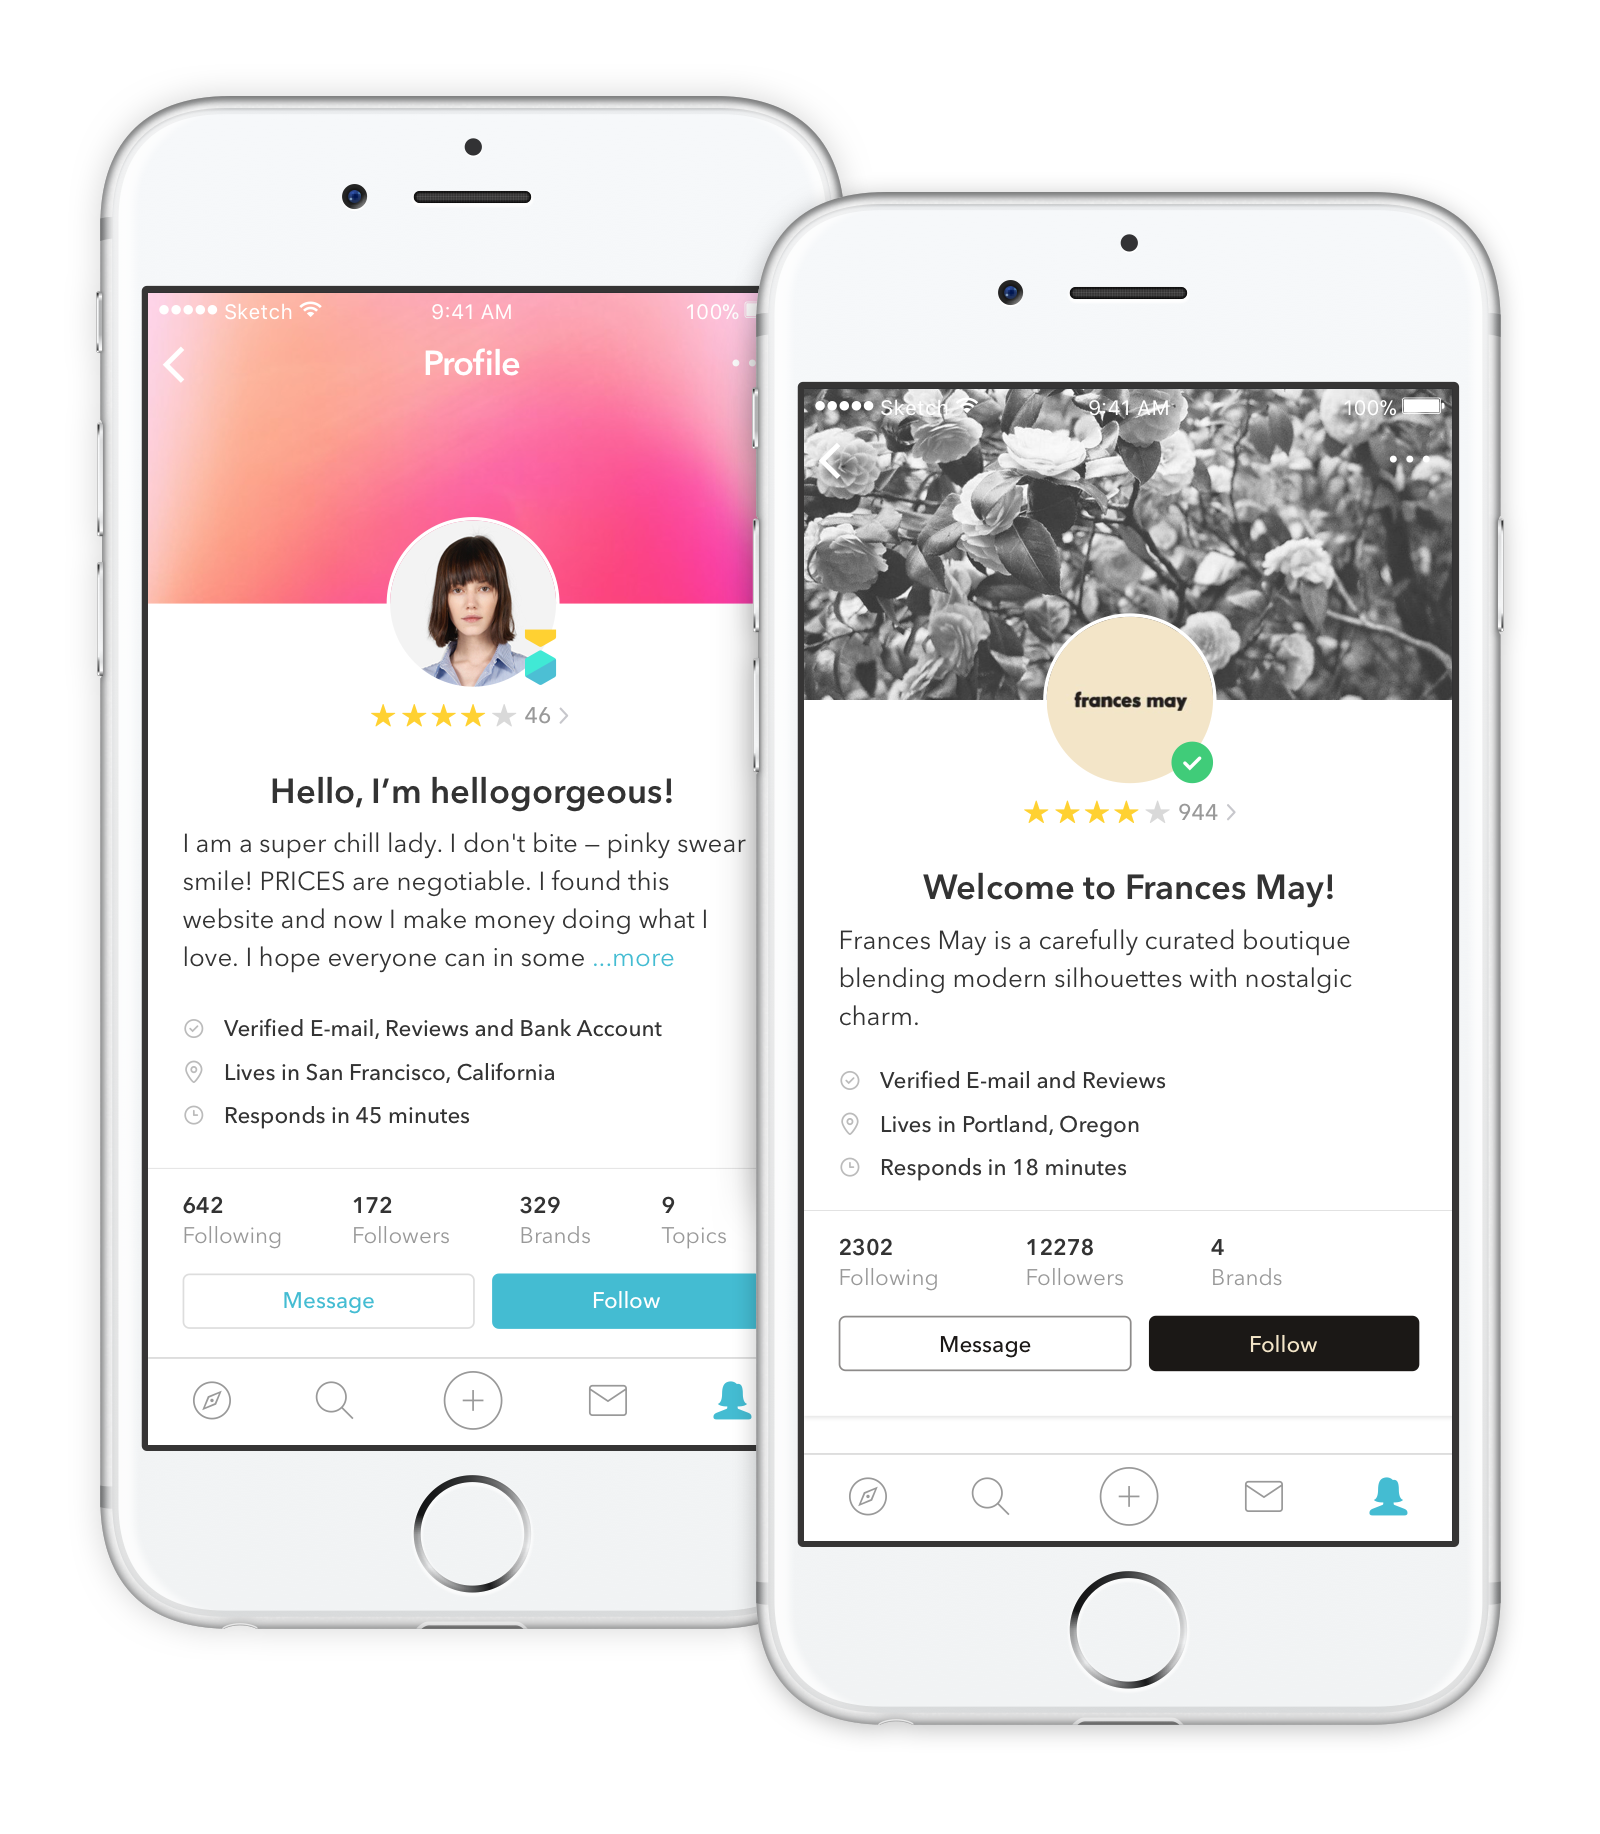
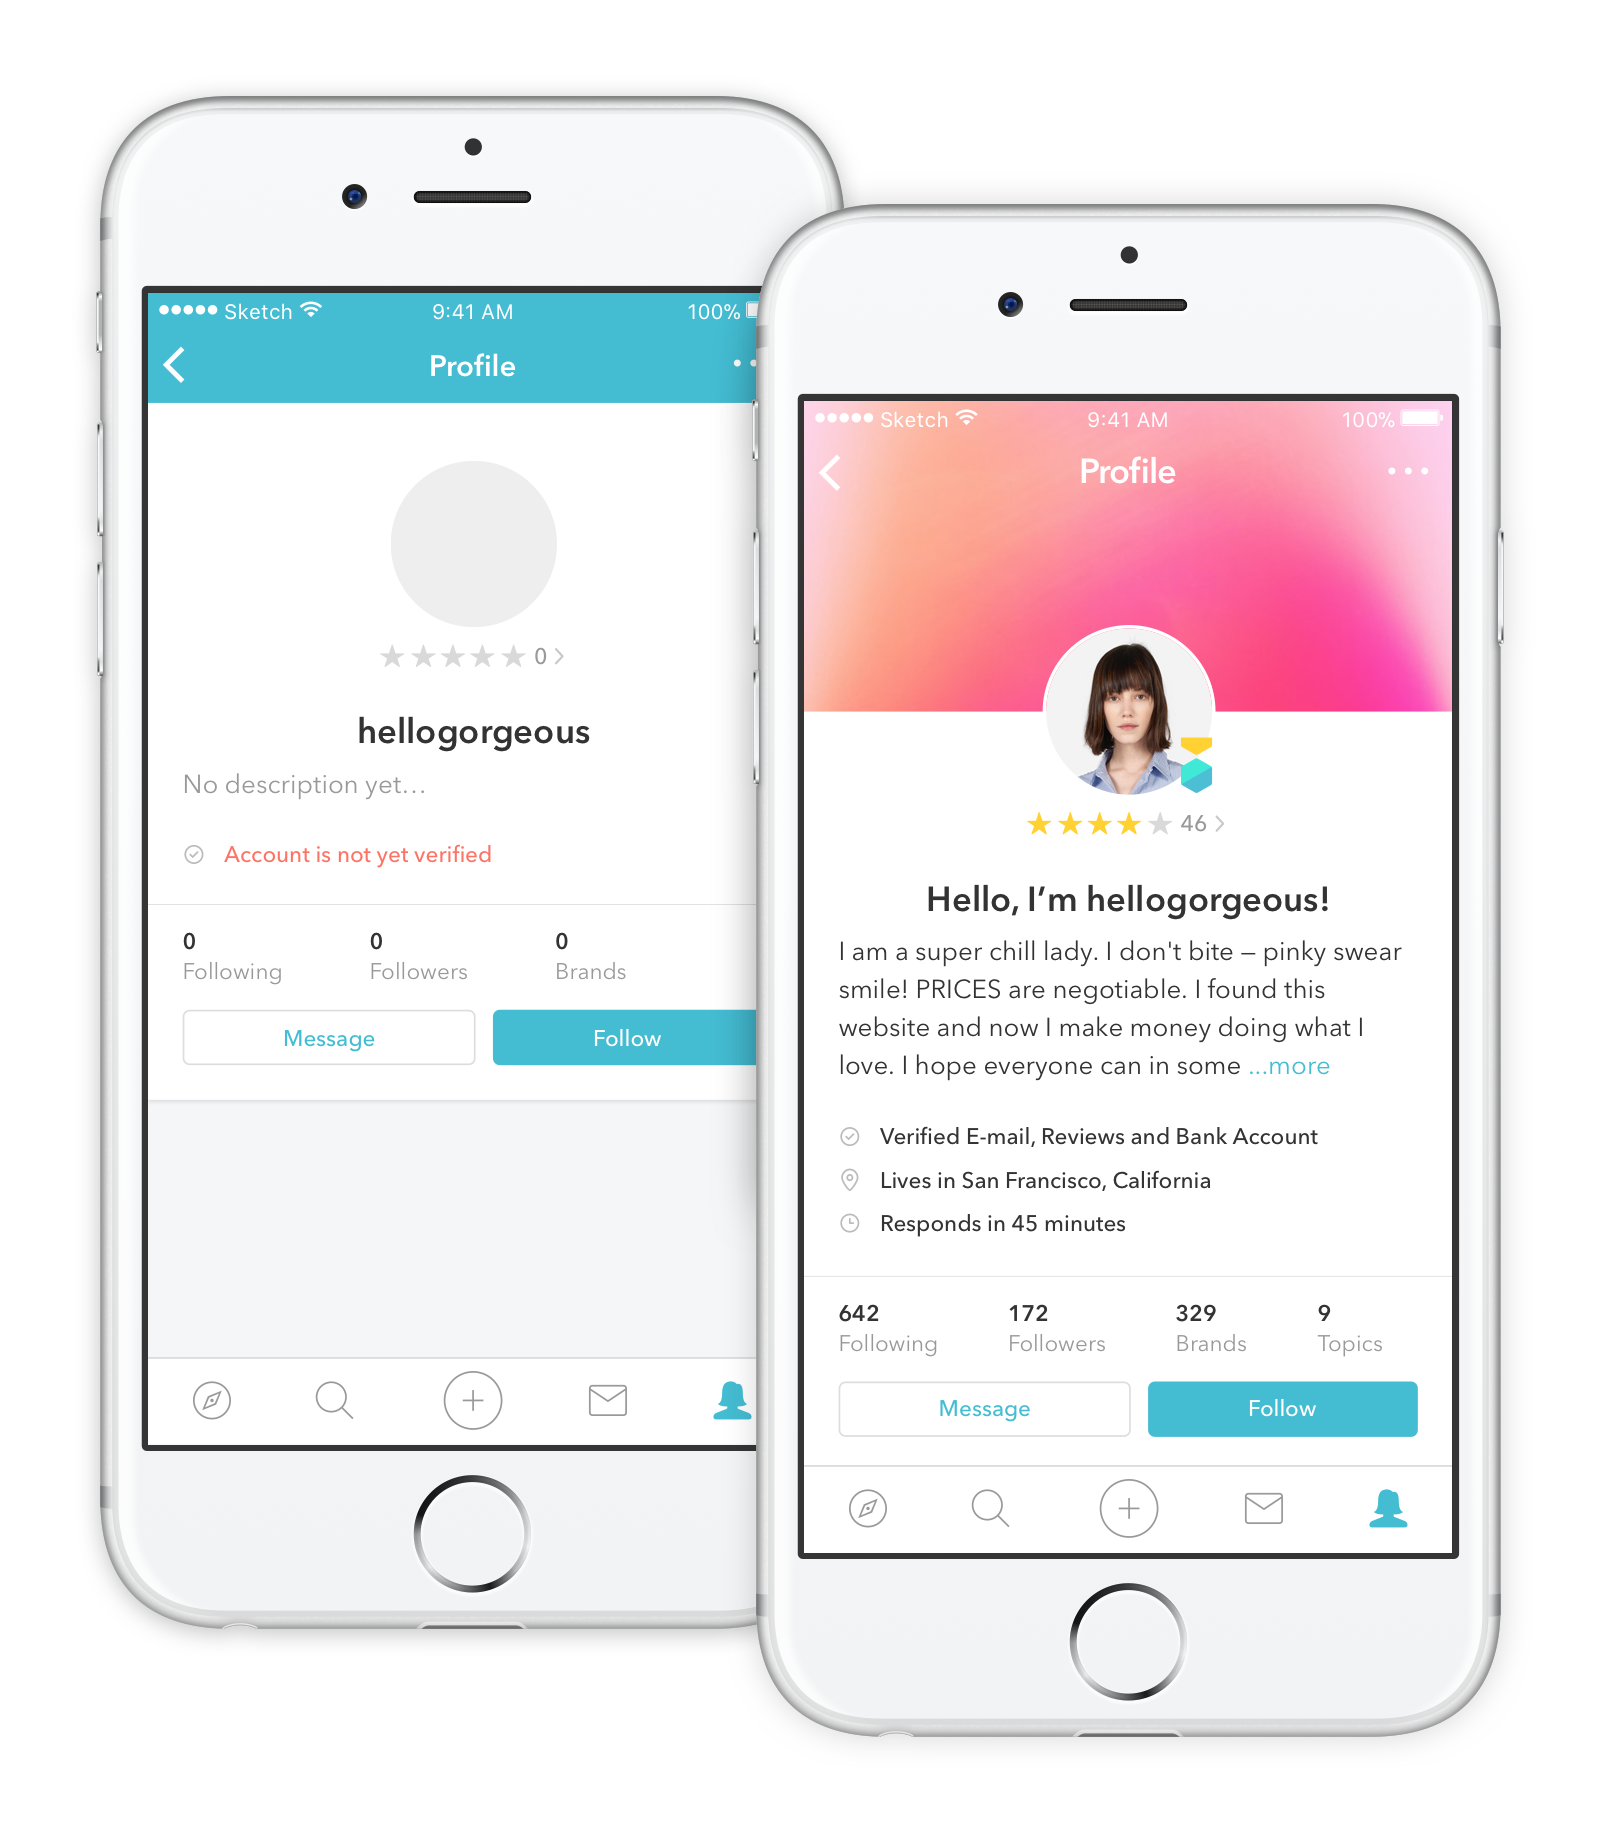
Finish profile examples in Vinted case study

diff --git a/vinted.html b/vinted.html
@@ -23,14 +23,9 @@
             </svg>
           </figure>
 
-          <p>I’ve joined Vinted in early 2014 — in the midst of company and market expansion and started as a front-end developer. After
-          a while, and seeing that product lacks the quality and focus, I began to design as well. The company saw my efforts and in
-          few upcoming months, decided to give me a permanent role in product design — a possibility to work on web and mobile experiences.</p>
+          <p>I’ve joined Vinted in early 2014 — in the midst of company and market expansion as a front-end developer. After a while, and seeing that product lacks the quality and focus, I began to design as well. The company saw my efforts and in few upcoming months, decided to give me a permanent role in product design — a possibility to work on web and mobile experiences.</p>
 
-          <p>During this time, I had an opportunity to work on projects ranging from the personalization of a feed, onboarding, safety
-          and trust improvements, buying and selling experiences to video stories, editorial, help center or members collections. For
-          some time, I’ve also lead eight designers team, while mainly focusing on design organization scale, impact and vision across
-          Vinted products, marketing, and communication.</p>
+          <p>During this time, I had an opportunity to work on projects ranging from the personalization of a feed, onboarding, safety and trust improvements, buying and selling experiences to video stories, editorial, help center or members collections. For some time, I’ve also led eight designers team, while mainly focusing on design organization scale, impact and vision across Vinted products, marketing, and communication.</p>
 
           <p>I will focus only on the projects, that made the biggest impact on product and experience.</p>
       </section>
@@ -52,7 +47,7 @@
           <p>So I’ve had to change how ratings are being calculated and displayed:</p>
 
           <ul>
-            <li><strong>Remove sales count</strong> as sales without reviews were not truly valuable.</li>
+            <li><strong>Remove sales count</strong> as sales without reviews weren't truly valuable.</li>
             <li><strong>Remove legacy positive/negative feedbacks count</strong> as it only confused our users.</li>
             <li><strong>Update rating calculation rules</strong> for more precise reflection of members feedbacks.</li>
           </ul>
@@ -77,25 +72,19 @@
             </figure>
 
             <p>New feedback flow contained same five-star rating with clear names and a possibility to sort feedbacks by most recent or most helpful. I've also improved seller-buyer conversation: added notification reminders about feedbacks that need to be left, added feedback timer, which would leave automatic feedback once expired, and decided to display feedbacks in profile only when both sides (buyer and seller) left them.</p>
-
-            <p>Being aware that feedback changes will cause a major discussion in our community, we had to prepare an extensive communication as well.</p>
           </span>
 
           <p>Feedback display improvements were a major success for our top users with a lot of feedbacks, but not for our new users with no feedback at all. Having that in mind, I've decided to rethink how we present user profile and add more trust identifiers.</p>
 
-          <span class="wrapper wrapper--medium">
-            <figure>
-              <a href="#id_verification_flow">
-                <img class="thumbnail" src="images/vinted/id_verification_flow.png" alt="Newly added ID Verification flow in profile settings." />
-              </a>
-            
-              <figcaption>Newly added ID Verification flow in profile settings.</figcaption>
-            </figure>
+          <figure class="figure--medium">
+            <a href="#id_verification_flow">
+              <img class="thumbnail image--medium" src="images/vinted/id_verification_flow.png" alt="Newly added ID Verification flow in profile settings." />
+            </a>
+          
+            <figcaption>Newly added ID Verification flow in profile settings.</figcaption>
+          </figure>
 
-            <p>By adding additional verification layers (ID and bank verification) to already existing ones, users will be able to improve their profile quality and, in consequence, look more trustful without making a huge number of sales.</p>
-
-            <p>...</p>
-          </span>
+          <p>By implementing additional verification layers (ID and bank verification) to already existing ones, users would be able to improve their profile quality and, in consequence, look more trustful without making a huge number of sales.</p>
 
           <span class="wrapper wrapper--medium">
             <figure>
@@ -106,19 +95,17 @@
               <figcaption>Badges system for updated member profile.</figcaption>
             </figure>
 
-            <p>...</p>
-          </span>          
+            <p>This also meant, that we can improve the personalization of the profile, as it was the front of users clothes stores. For that reason, I've added customizable background cover and a possibility to add more details.</p>
 
-          <figure>
-            PROFILE EXPLORATION?
-          </figure>
+            <p>After huge exploration with multiple layouts for different platforms, empty states, badges system and personalization details, the new profile was ready to see the daylight. And, being aware that changes will cause a major discussion in our community, we had to prepare an extensive communication as well.</p>
+          </span>          
 
           <figure class="figure--medium">
             <a href="#profile_examples">
-              <img class="thumbnail image--medium" src="images/vinted/profile_examples.png" alt="Final version of new Vinted profile with feedback rating, verifications and cover."/>
+              <img class="thumbnail image--medium" src="images/vinted/profile_examples.png" alt="Two version of new profile — totally empty and with personal details added."/>
             </a>
           
-            <figcaption>Final version of new Vinted profile with feedback rating, verifications and cover.</figcaption>
+            <figcaption>Two version of new profile — totally empty and with personal details added.</figcaption>
           </figure>
 
           <p>We've rolled out the updated profile with new feedback and verifications across all our countries, and saw immediate improvements in items sold per user, which was a good indication, that we've done an amazing job!</p>
@@ -155,7 +142,7 @@
         <h2 id="design_system">Design System</h2>
           <p>Product designer at Vinted designs for three platforms — Web, iOS, and Android. So, designing UI would always take much more time than problem research or solution exploration.</p>
 
-          <p>Once I’ve started leading design team, I set myself a goal — to fix our design process. We’ve started having weekly user exposure hours, built guild roadmap, defined design vision, and principles, but having experience in both design and development, I’ve also started thinking how to improve design-to-development process.</p>
+          <p>Once I’ve started leading design team, I set myself a goal — to fix our design process. We’ve started having weekly user exposure hours, built guild roadmap, defined design vision and principles, but having experience in both design and development, I’ve also started thinking how to improve design-to-development process.</p>
 
           <blockquote>“Design system goal is not a consistency, but improvement in design-to-development processes. Consistency is only a consequence of good processes.”</blockquote>
 
@@ -181,7 +168,7 @@
             </ul>
           </span>
 
-          <p>The components were separated into three groups — atoms, molecules, and organisms (based on Atomic Design principles). They had specific properties, which defined variations, and shared same primitives — color themes and styles.</p>
+          <p>The components were separated into three groups — atoms, molecules, and organisms (based on <a href="http://atomicdesign.bradfrost.com/" target="_blank">Atomic Design principles<span class="tooltip">Brad Frost — Atomic Design</span></a>). They had specific properties, which defined variations, and shared same primitives — spacings, color themes and styles.</p>
 
           <figure>
             <a href="#cell_component_variations">
@@ -256,7 +243,7 @@
         </a>
 
         <a href="#_" class="lightbox" id="profile_examples">
-          <img src="images/vinted/profile_examples.png" alt="Final version of new Vinted profile with feedback rating, verifications and cover."/>
+          <img src="images/vinted/profile_examples.png" alt="Two version of new profile — totally empty and with personal details added."/>
         </a>
 
         <a href="#_" class="lightbox" id="id_verification_flow">
